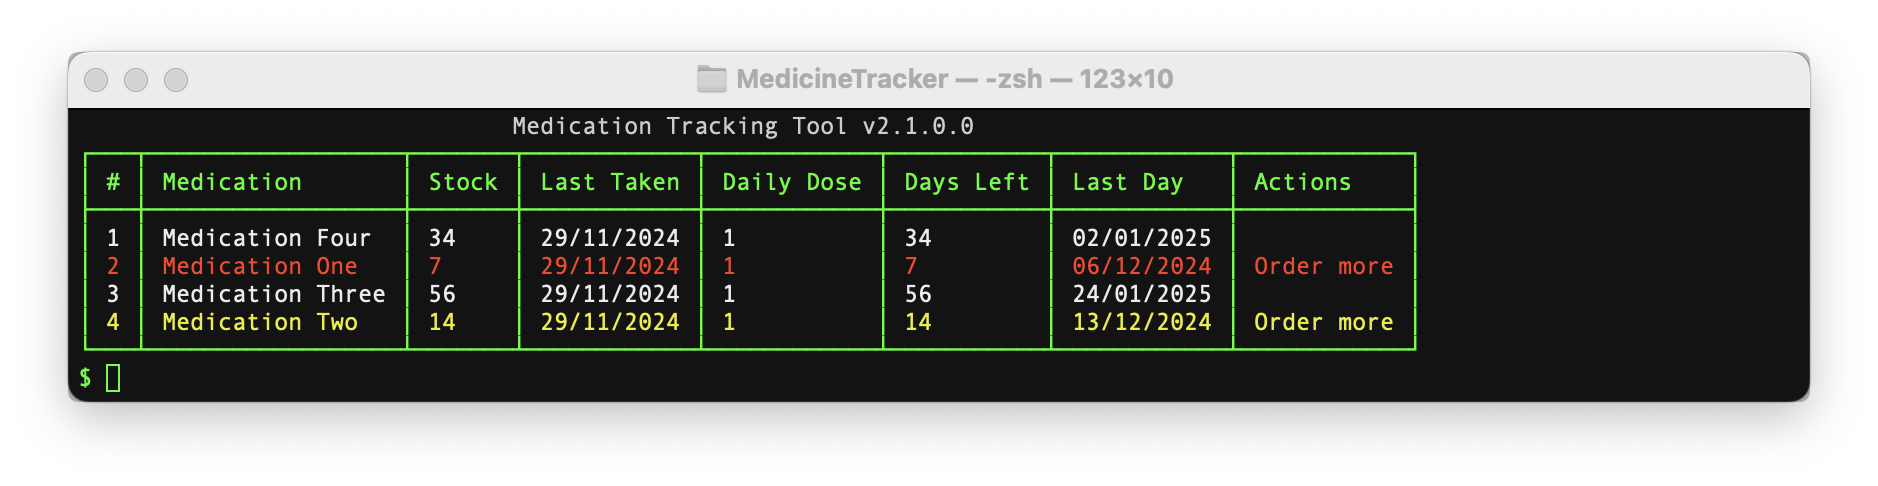
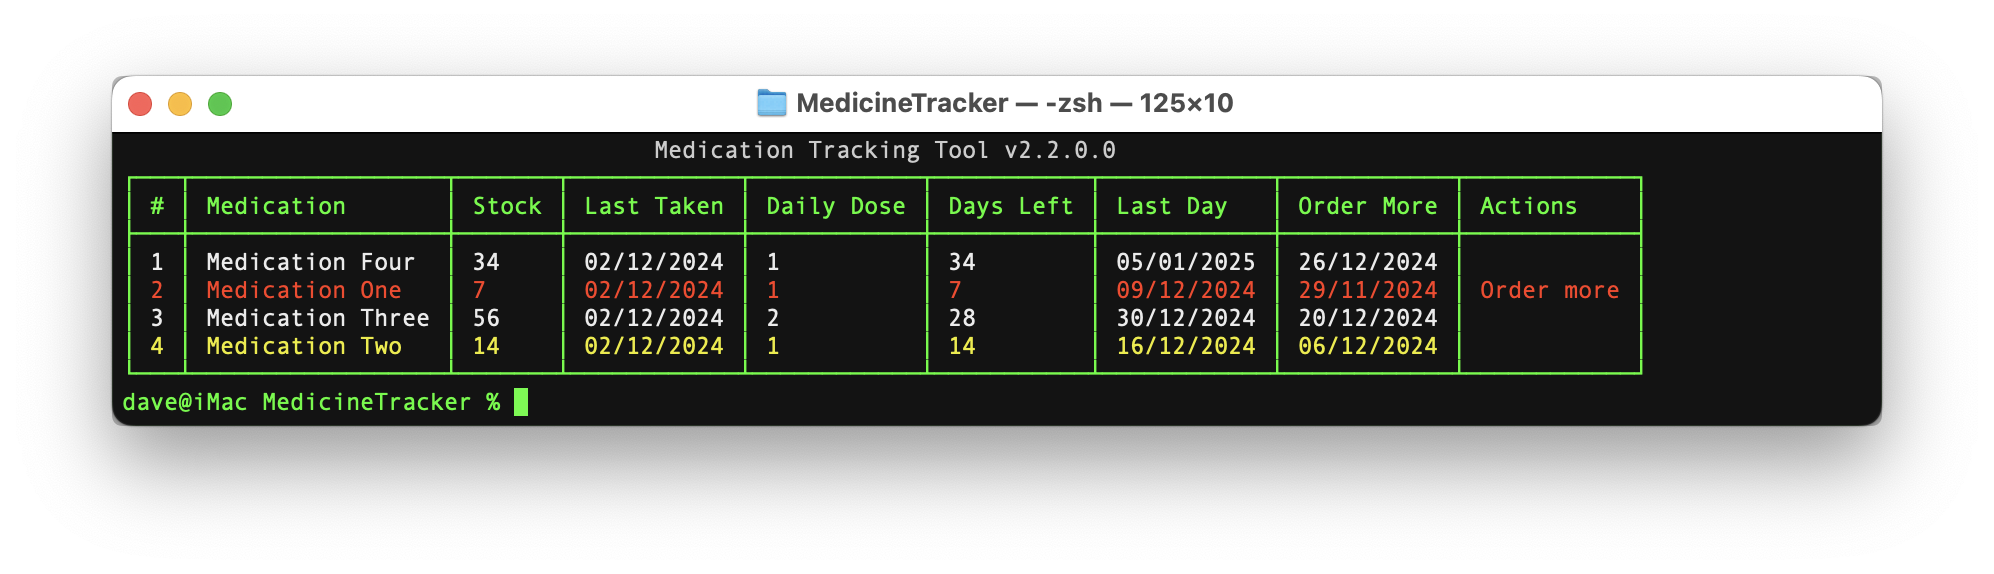
Added 'order more' date to the output

Changed region(s): [[0.0309, 0.0926, 0.9883, 0.8333]]

diff --git a/src/MedicineTracker.Tests/ActionGeneratorTest.cs b/src/MedicineTracker.Tests/ActionGeneratorTest.cs
@@ -7,7 +7,7 @@ namespace MedicineTracker.Tests
     [TestClass]
     public class ActionGeneratorTest
     {
-        private const int WarningDays = 14;
+        private const int LeadTimeDays = 14;
         private const string TakeDoseAction = "Take dose";
         private const string OrderMoreAction = "Order more";
 
@@ -16,7 +16,7 @@ namespace MedicineTracker.Tests
         [TestInitialize]
         public void Initialise()
         {
-            _generator = new(new ApplicationSettings{WarningDays = WarningDays});
+            _generator = new(new ApplicationSettings{LeadTimeDays = LeadTimeDays});
         }
 
         [TestMethod]
@@ -26,7 +26,7 @@ namespace MedicineTracker.Tests
             {
                 LastTaken = MedicineTrackerDateUtils.TodayWithoutTime(),
                 DailyDose = 1,
-                Stock = WarningDays + 1
+                Stock = LeadTimeDays + 1
             };
 
             var actions = _generator.GetActions(medication);
@@ -40,7 +40,7 @@ namespace MedicineTracker.Tests
             {
                 LastTaken = MedicineTrackerDateUtils.TodayWithoutTime().AddDays(-1),
                 DailyDose = 1,
-                Stock = WarningDays + 1
+                Stock = LeadTimeDays + 1
             };
 
             var actions = _generator.GetActions(medication);
@@ -55,7 +55,7 @@ namespace MedicineTracker.Tests
             {
                 LastTaken = MedicineTrackerDateUtils.TodayWithoutTime(),
                 DailyDose = 1,
-                Stock = WarningDays
+                Stock = LeadTimeDays
             };
 
             var actions = _generator.GetActions(medication);
@@ -70,7 +70,7 @@ namespace MedicineTracker.Tests
             {
                 LastTaken = MedicineTrackerDateUtils.TodayWithoutTime().AddDays(-1),
                 DailyDose = 1,
-                Stock = WarningDays
+                Stock = LeadTimeDays
             };
 
             var actions = _generator.GetActions(medication);

diff --git a/src/MedicineTracker/ConsoleUtils/MedicationTabulator.cs b/src/MedicineTracker/ConsoleUtils/MedicationTabulator.cs
@@ -34,6 +34,7 @@ namespace MedicineTracker.ConsoleUtils
             table.AddColumn("Daily Dose");
             table.AddColumn("Days Left");
             table.AddColumn("Last Day");
+            table.AddColumns("Order More");
             table.AddColumn("Actions");
 
             foreach (var medication in medications)
@@ -50,6 +51,7 @@ namespace MedicineTracker.ConsoleUtils
                     GetCellData(colour, medication.DailyDose.ToString()),
                     GetCellData(colour, medication.DaysRemaining().ToString()),
                     GetCellData(colour, medication.LastDay().ToShortDateString()),
+                    GetCellData(colour, medication.LastDay().AddDays(-_settings.LeadTimeDays).ToShortDateString()),
                     GetCellData(colour, actions)
                 };
 

diff --git a/src/MedicineTracker.BusinessLogic/Stock/ActionGenerator.cs b/src/MedicineTracker.BusinessLogic/Stock/ActionGenerator.cs
@@ -29,7 +29,7 @@ namespace MedicineTracker.BusinessLogic.Stock
                 actions.Add(action);
             }
 
-            if (medication.DaysRemaining() <= _settings.WarningDays)
+            if (medication.DaysRemaining() <= _settings.LeadTimeDays)
             {
                 string action = _resources.GetString("OrderMoreAction");
                 actions.Add(action);

diff --git a/src/MedicineTracker.Entities/Configuration/ApplicationSettings.cs b/src/MedicineTracker.Entities/Configuration/ApplicationSettings.cs
@@ -2,6 +2,7 @@ namespace MedicineTracker.Entities.Configuration
 {
     public class ApplicationSettings
     {
+        public int LeadTimeDays { get; set; }
         public int WarningDays { get; set; }
         public int CriticalDays { get; set; }
         public string DataFile { get; set; }
